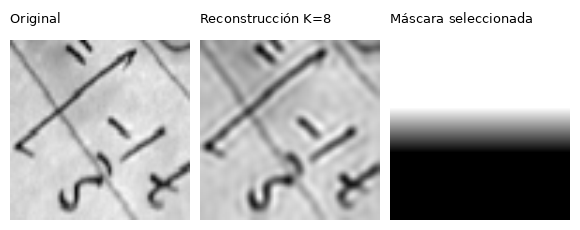
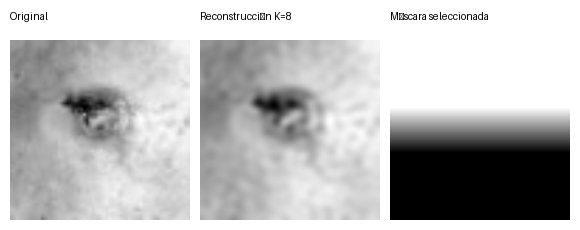
hotfix: Add mask_to_image function in plots. Also run with DFU random selection with the DFU dataset

diff --git a/hermite_morl_day1/src/plots.py b/hermite_morl_day1/src/plots.py
@@ -141,3 +141,11 @@ def save_metric_curve(summary_df, output_path: str | Path) -> None:
             draw.text((x - (bbox[2] - bbox[0]) / 2, height - margin + 10), label, fill=axis_color, font=small)
 
     canvas.save(output_path)
+
+def mask_to_image(mask: np.ndarray, side: int | None = None) -> np.ndarray:
+    mask = np.asarray(mask, dtype=np.float32).reshape(-1)
+    if side is None:
+        side = int(np.ceil(np.sqrt(len(mask))))
+    canvas = np.zeros((side, side), dtype=np.float32)
+    canvas.flat[: len(mask)] = mask
+    return canvas